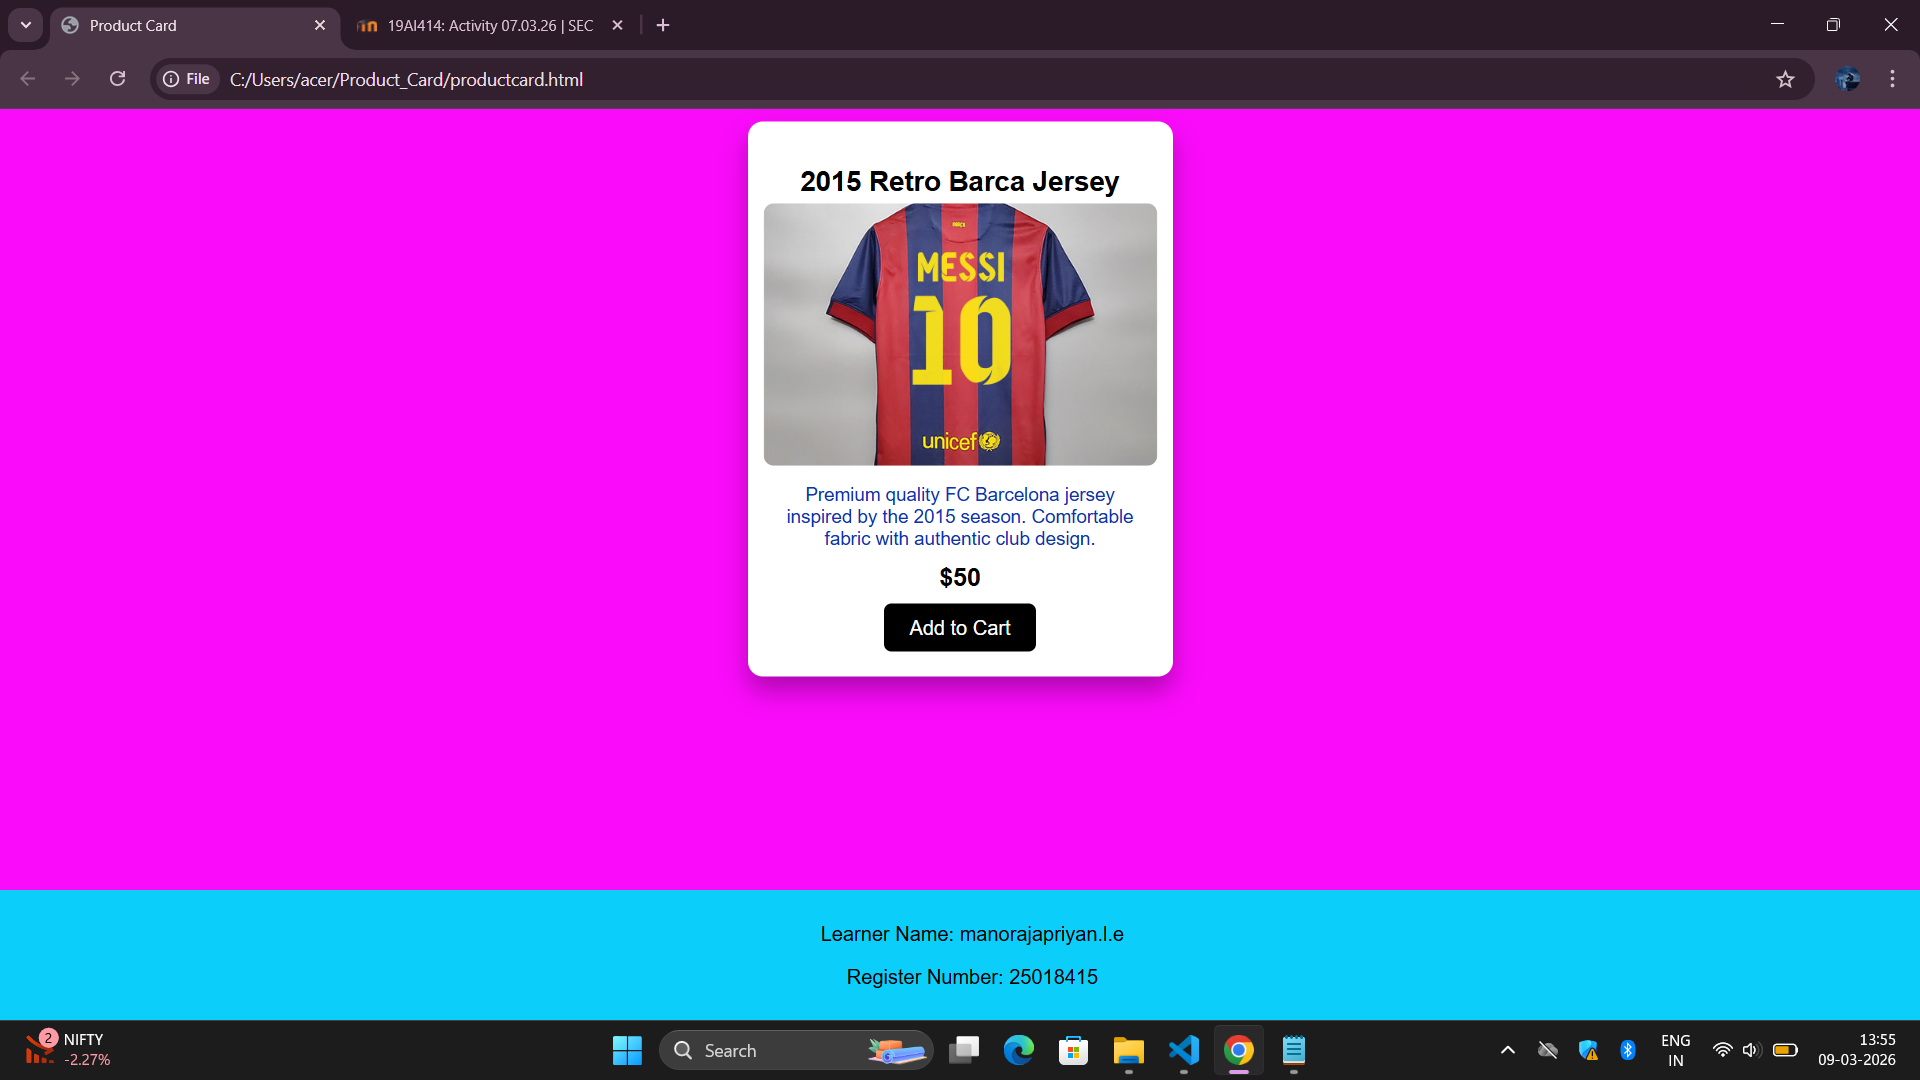
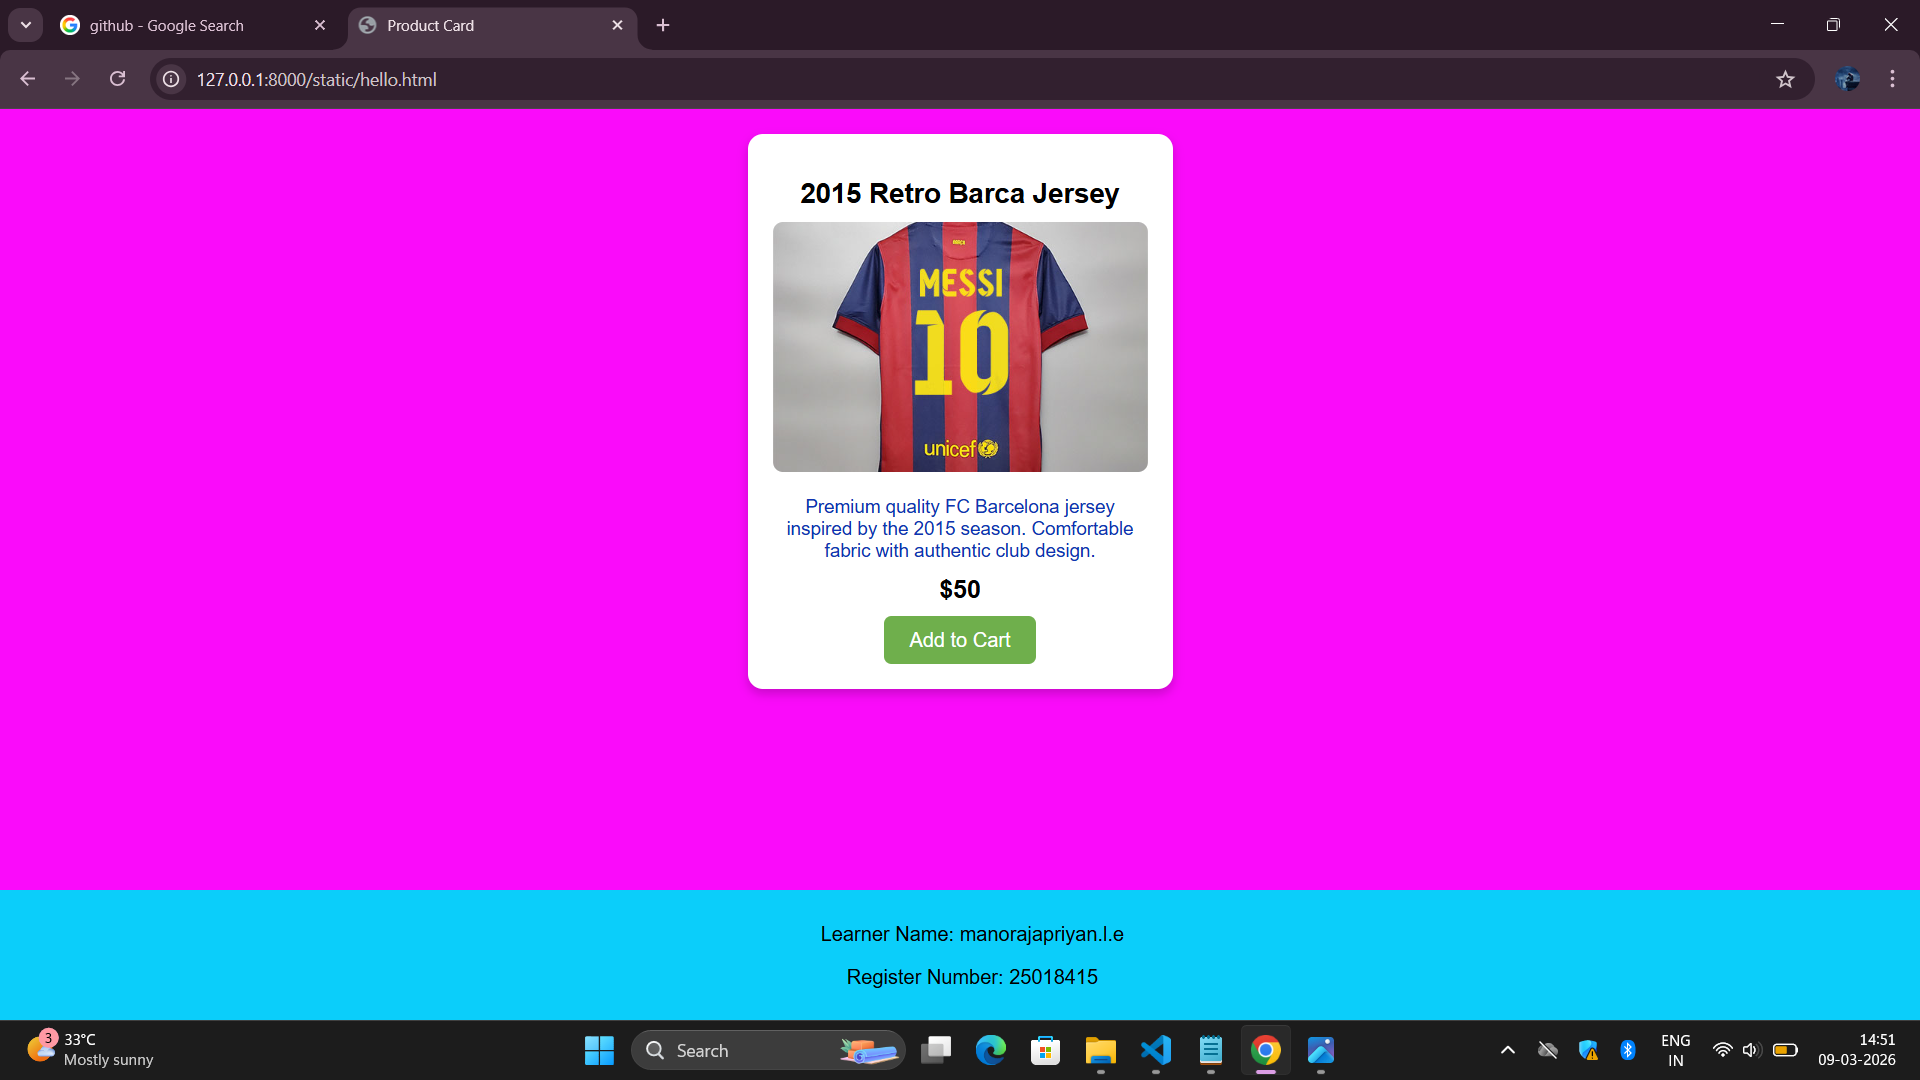
success

diff --git a/mano/myapp/static/hello.html b/mano/myapp/static/hello.html
@@ -1,0 +1,124 @@
+<!DOCTYPE html>
+
+<html>
+<head>
+<meta charset="UTF-8">
+<title>Product Card</title>
+
+<style>
+
+body{
+    display:flex;
+    flex-direction:column;
+    justify-content:center;
+    align-items:center;
+    margin:0;
+    padding:20px;
+    background-color:#fa0bfa;
+    font-family:Arial, Helvetica, sans-serif;
+}
+
+.product-card{
+    width:300px;
+    background:white;
+    border-radius:12px;
+    box-shadow:0 4px 8px rgba(0,0,0,0.2);
+    text-align:center;
+    padding:20px;
+    overflow:hidden;
+
+    transition: transform 0.3s ease, box-shadow 0.3s ease;
+}
+
+.product-card:hover{
+    transform: translateY(-10px);
+    box-shadow:0 12px 20px rgba(0,0,0,0.3);
+}
+
+.product-image{
+    width:100%;
+    height:200px;
+    object-fit:cover;
+    border-radius:8px;
+
+    transition: transform 0.3s ease;
+}
+
+.product-card:hover .product-image{
+    transform: scale(1.05);
+}
+
+.product-name{
+    font-size:22px;
+    margin:15px 0 10px;
+}
+
+.product-description{
+    font-size:15px;
+    color:#1033b2;
+    margin-bottom:10px;
+}
+
+.product-price{
+    font-size:20px;
+    font-weight:bold;
+    margin:10px 0;
+}
+
+.add-to-cart{
+    background:#6faf4c;
+    color:white;
+    border:none;
+    padding:10px 20px;
+    font-size:16px;
+    border-radius:6px;
+    cursor:pointer;
+
+    transition: background-color 0.3s ease;
+}
+
+.add-to-cart:hover{
+    background:black;
+}
+
+footer{
+    background:#0bcefa;
+    color:black;
+    text-align:center;
+    padding:10px;
+    width:100%;
+    position:fixed;
+    bottom:0;
+    left:0;
+}
+
+</style>
+
+</head>
+
+<body>
+
+<div class="product-card">
+
+<h2 class="product-name">2015 Retro Barca Jersey</h2>
+
+<img src="messi jersey.jpg" alt="Barcelona Jersey" class="product-image">
+
+<p class="product-description">
+Premium quality FC Barcelona jersey inspired by the 2015 season.
+Comfortable fabric with authentic club design.
+</p>
+
+<p class="product-price">$50</p>
+
+<button class="add-to-cart">Add to Cart</button>
+
+</div>
+
+<footer>
+<p>Learner Name: manorajapriyan.l.e</p>
+<p>Register Number: 25018415</p>
+</footer>
+
+</body>
+</html>

diff --git a/mano/mano/settings.py b/mano/mano/settings.py
@@ -11,7 +11,7 @@ https://docs.djangoproject.com/en/6.0/ref/settings/
 """
 
 from pathlib import Path
-impo
+import os
 # Build paths inside the project like this: BASE_DIR / 'subdir'.
 BASE_DIR = Path(__file__).resolve().parent.parent
 
@@ -36,7 +36,7 @@ INSTALLED_APPS = [
     'django.contrib.contenttypes',
     'django.contrib.sessions',
     'django.contrib.messages',
-    'django.contrib.staticfiles',
+    'django.contrib.staticfiles','myapp'
 ]
 
 MIDDLEWARE = [
